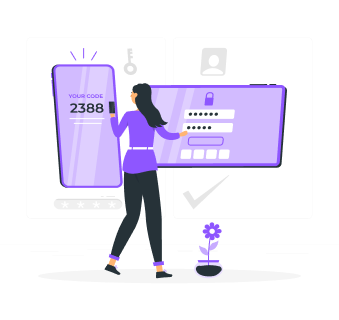
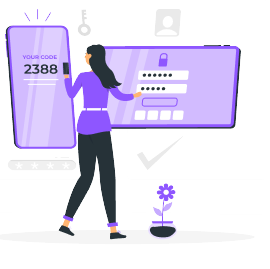
verification

diff --git a/lib/ui/screens/auth/forgetpassword/resetpassword.dart b/lib/ui/screens/auth/forgetpassword/resetpassword.dart
@@ -76,7 +76,7 @@ class _ResetpasswordScreenState extends State<ResetpasswordScreen> {
             ),
             Text(
               appLocalizations.enterNewPass,
-              style: TextStyle(
+              style: const TextStyle(
                 fontWeight: FontWeight.bold,
                 fontSize: 24,
               ),
@@ -105,16 +105,16 @@ class _ResetpasswordScreenState extends State<ResetpasswordScreen> {
                   },
                 ),
                 enabledBorder: OutlineInputBorder(
-                  borderSide: BorderSide(color: Colors.grey),
+                  borderSide: const BorderSide(color: Colors.grey),
                   borderRadius: BorderRadius.circular(16),
                 ),
                 focusedBorder: OutlineInputBorder(
-                  borderSide: BorderSide(color: Colors.grey),
+                  borderSide: const BorderSide(color: Colors.grey),
                   borderRadius: BorderRadius.circular(16),
                 ),
                 errorText: _emptyFieldError,
                 // Error message if empty
-                errorStyle: TextStyle(color: Colors.red),
+                errorStyle: const TextStyle(color: Colors.red),
               ),
             ),
             const SizedBox(height: 16),
@@ -157,7 +157,7 @@ class _ResetpasswordScreenState extends State<ResetpasswordScreen> {
                   borderRadius: BorderRadius.circular(16),
                 ),
                 errorText: _passwordMatchError ?? _emptyFieldError,
-                errorStyle: TextStyle(color: Colors.red),
+                errorStyle: const TextStyle(color: Colors.red),
               ),
             ),
             const SizedBox(height: 32),
@@ -195,11 +195,11 @@ class PasswordResetDialog extends StatelessWidget {
         child: Column(
           mainAxisSize: MainAxisSize.min,
           children: [
-            Icon(Icons.lock_outline, size: 60, color: Color(0xff8E56FF)),
+            const Icon(Icons.lock_outline, size: 60, color: Color(0xff8E56FF)),
             const SizedBox(height: 20),
             Text(
               appLocalizations.yourPasswordHasBeenReset,
-              style: TextStyle(
+              style: const TextStyle(
                 fontWeight: FontWeight.bold,
                 fontSize: 20,
                 color: Colors.black,
@@ -213,8 +213,9 @@ class PasswordResetDialog extends StatelessWidget {
               },
               child: Text(appLocalizations.done),
               style: FilledButton.styleFrom(
-                backgroundColor: Color(0xff8E56FF),
-                padding: EdgeInsets.symmetric(horizontal: 24, vertical: 12),
+                backgroundColor: const Color(0xff8E56FF),
+                padding:
+                    const EdgeInsets.symmetric(horizontal: 24, vertical: 12),
                 shape: RoundedRectangleBorder(
                   borderRadius: BorderRadius.circular(16),
                 ),

diff --git a/lib/ui/screens/auth/login/login.dart b/lib/ui/screens/auth/login/login.dart
@@ -29,34 +29,16 @@ class LoginScreen extends StatelessWidget {
         child: Form(
           key: formKey,
           child: ListView(
-            padding: const EdgeInsets.all(16),
+            padding: const EdgeInsets.symmetric(horizontal: 16),
             children: [
               Image.asset(
                 AppAssets.login,
-                height: MediaQuery.of(context).size.height * 0.25,
+                height: MediaQuery.of(context).size.height * 0.3,
               ),
               buildEmailTextField(context),
               const SizedBox(height: 16),
               buildPasswordTextField(context),
               const SizedBox(height: 16),
-              // Row(
-              //   mainAxisAlignment: MainAxisAlignment.end,
-              //   children: [
-              //     GestureDetector(
-              //       onTap: () {},
-              //       child: Text(
-              //         textAlign: TextAlign.end,
-              //         appLocalizations.forgetPassword,
-              //         style: const TextStyle(
-              //           decoration: TextDecoration.underline,
-              //           color: AppColors.purple, // Color of the text
-              //           fontSize: 14, // Font size
-              //           fontWeight: FontWeight.bold, // Font weight
-              //         ),
-              //       ),
-              //     ),
-              //   ],
-              // ),
               Row(
                 mainAxisAlignment: MainAxisAlignment.end,
                 children: [
@@ -73,7 +55,7 @@ class LoginScreen extends StatelessWidget {
               buildLoginButton(context),
               const SizedBox(height: 16),
               buildSignUpRow(context),
-              const SizedBox(height: 16),
+              const SizedBox(height: 8),
               buildORText(context),
               const SizedBox(height: 16),
               buildGoogleSignInButton(context),
@@ -193,7 +175,9 @@ class LoginScreen extends StatelessWidget {
             children: [
               Brand(Brands.google),
               const SizedBox(width: 8),
-              Text(appLocalizations.googleLogin),
+              Text(
+                appLocalizations.googleLogin,
+              ),
             ],
           )),
     );

diff --git a/lib/ui/screens/auth/register/register.dart b/lib/ui/screens/auth/register/register.dart
@@ -4,6 +4,7 @@ import 'package:hope/core/assets/app_assets.dart';
 import 'package:hope/core/assets/app_icons.dart';
 import 'package:hope/core/providers/theme_provider.dart';
 import 'package:hope/core/theme/app_colors.dart';
+import 'package:hope/ui/screens/auth/login/login.dart';
 import 'package:hope/ui/shared_widgets/custom_check_field.dart';
 import 'package:hope/ui/shared_widgets/custom_drop_down.dart';
 import 'package:hope/ui/shared_widgets/custom_label.dart';
@@ -54,7 +55,7 @@ class _RegisterScreen extends State<RegisterScreen> {
           children: [
             Image.asset(
               AppAssets.register,
-              height: MediaQuery.of(context).size.height * 0.4,
+              height: MediaQuery.of(context).size.height * 0.3,
             ),
             CustomLabel(
                 controller: nameController,
@@ -89,7 +90,7 @@ class _RegisterScreen extends State<RegisterScreen> {
                     child: Row(
                       children: [
                         ImageIcon(
-                          AssetImage(AppIcons.calenderIcon),
+                          const AssetImage(AppIcons.calenderIcon),
                           color: themeProvider.isDark()
                               ? AppColors.white
                               : AppColors.gray,
@@ -226,7 +227,7 @@ class _RegisterScreen extends State<RegisterScreen> {
         ),
         TextButton(
           onPressed: () {
-            Navigator.pop(context);
+            Navigator.pushNamed(context, LoginScreen.routeName);
           },
           child: Text(appLocalizations.login),
         )

diff --git a/lib/ui/screens/onBoarding_screens/on_boarding/onboarding_screen.dart b/lib/ui/screens/onBoarding_screens/on_boarding/onboarding_screen.dart
@@ -86,7 +86,8 @@ class _OnBoardingScreenState extends State<OnBoardingScreen> {
               child: Image.asset(
                 onboardingData[index]["image"]!,
                 fit: BoxFit.fill,
-                height: MediaQuery.of(context).size.height * 0.50,
+                width: MediaQuery.of(context).size.width,
+                height: MediaQuery.of(context).size.height * 0.6,
               )),
           const SizedBox(height: 40),
           Row(

diff --git a/lib/ui/screens/auth/forgetpassword/verification.dart b/lib/ui/screens/auth/forgetpassword/verification.dart
@@ -34,7 +34,8 @@ class _VerficationScreenState extends State<VerficationScreen> {
           children: [
             Image.asset(
               AppAssets.verification,
-              height: MediaQuery.of(context).size.height * 0.4,
+              width: MediaQuery.of(context).size.width * 0.8,
+              height: MediaQuery.of(context).size.height * 0.35,
             ),
             Text(
               appLocalizations.enterEmailOrPhone,

diff --git a/lib/main.dart b/lib/main.dart
@@ -53,7 +53,7 @@ class MyApp extends StatelessWidget {
         VerficationScreen.routeName: (_) => VerficationScreen(),
         ResetpasswordScreen.routeName: (_) => ResetpasswordScreen(),
       },
-      initialRoute: SplashScreen.routeName,
+      initialRoute: LoginScreen.routeName,
       theme: AppTheme.lightTheme,
       darkTheme: AppTheme.darkTheme,
       themeMode: themeProvider.themeMode,
